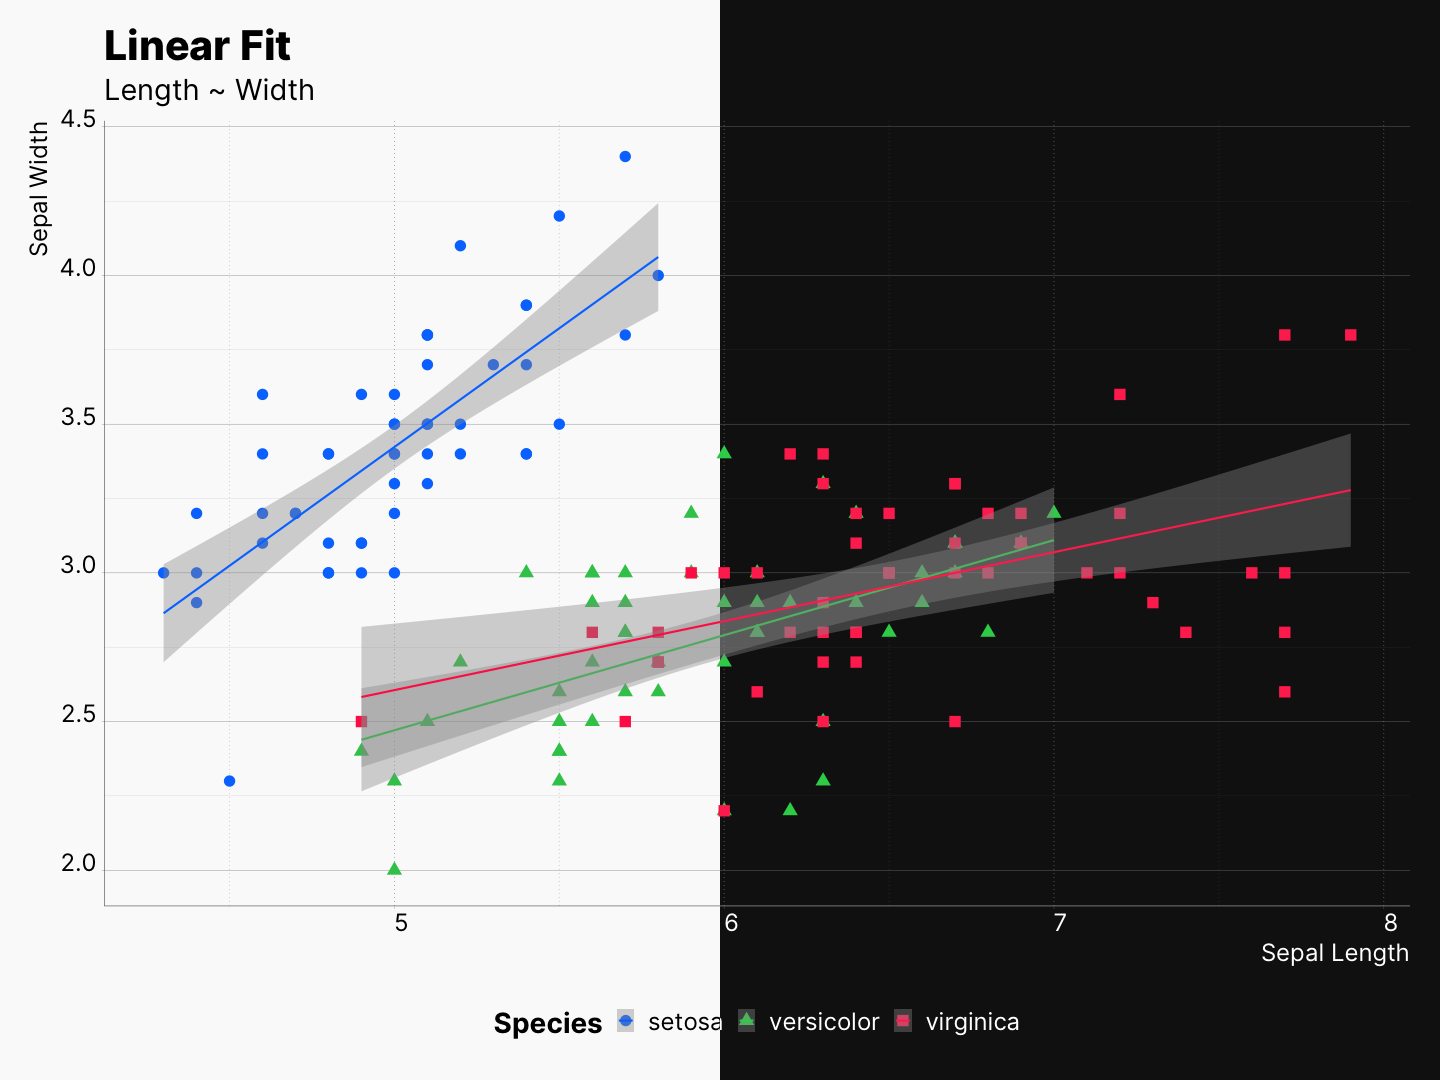
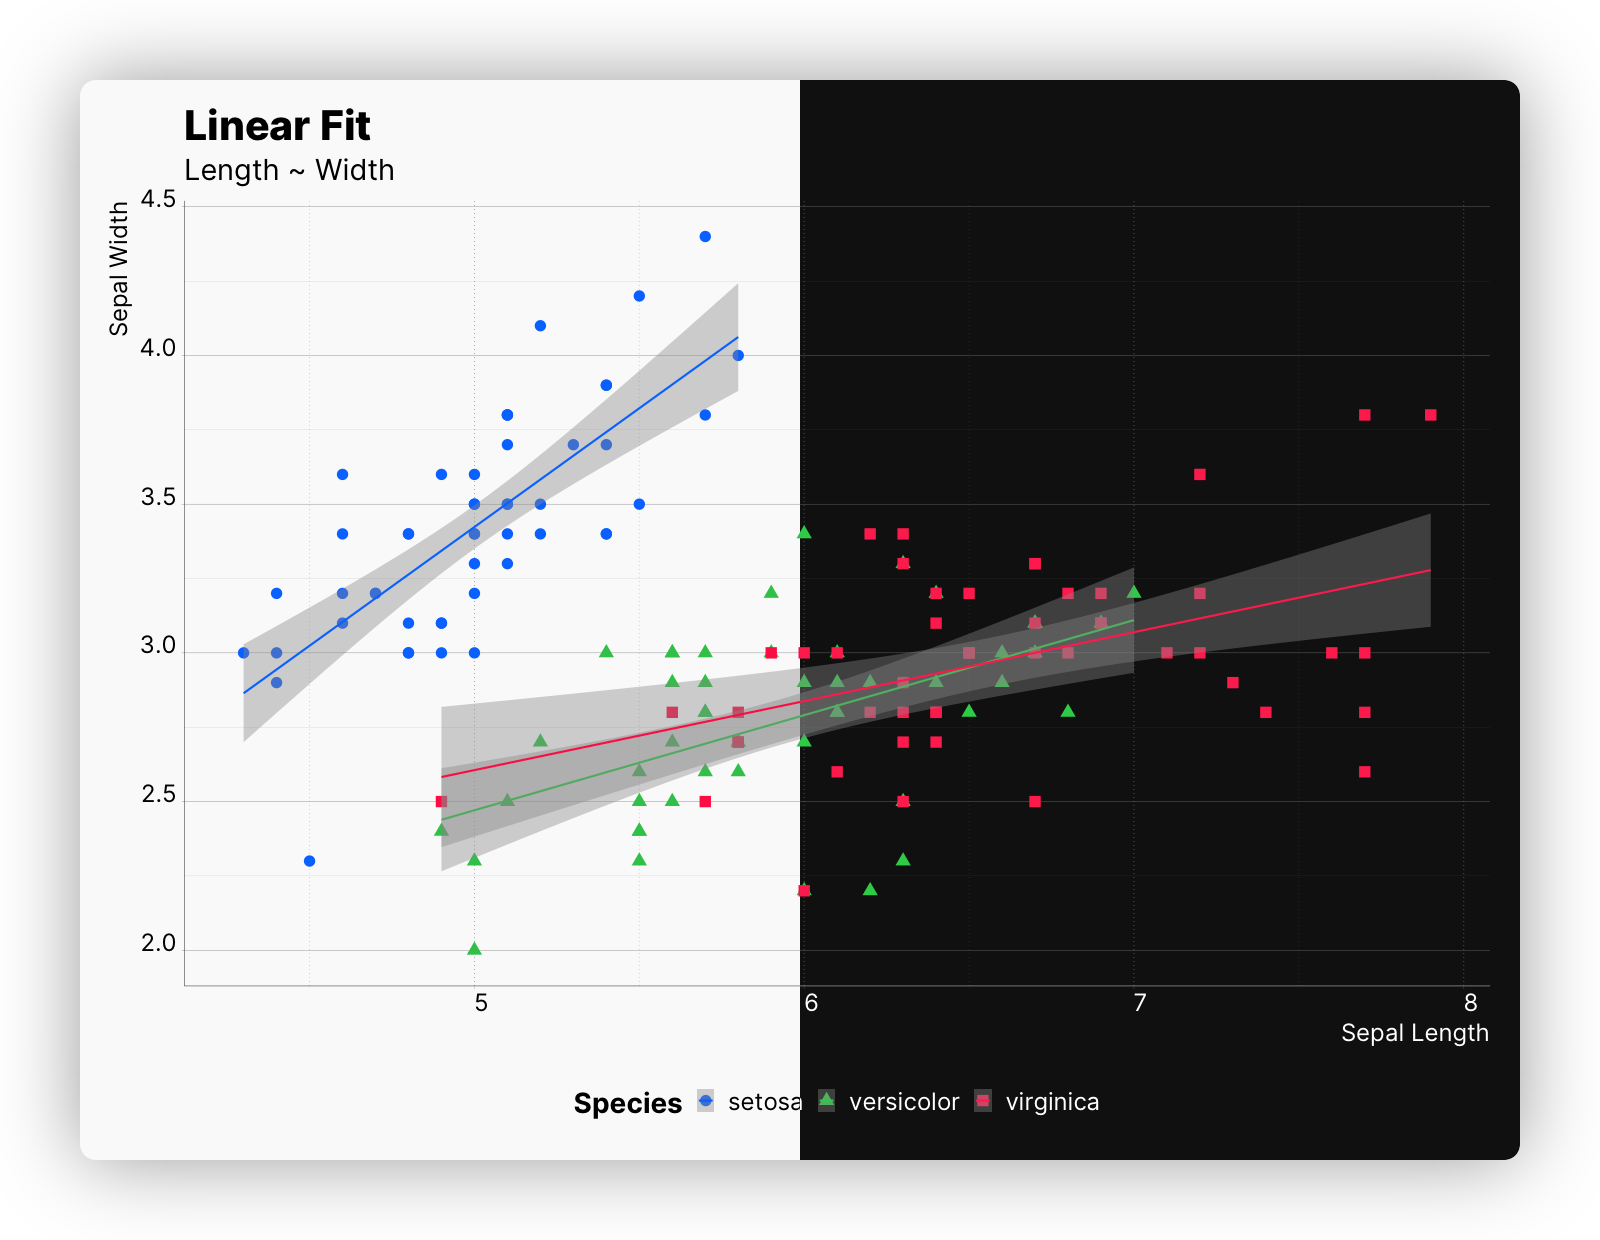
updated more figures, and added shadow around the main figure

diff --git a/README.md b/README.md
@@ -50,7 +50,7 @@ In general, we recommend pairing light scales with `theme_sf_light` and dark sca
 
 | | |
 |--|--|
-|![](man/figures/front-page-main-light.png) | ![](man/figures/front-page-main-dark.png) |
+|![](man/figures/front-page-sample-light.png) | ![](man/figures/front-page-sample-dark.png) |
 
 #### Accessible Colors
 
